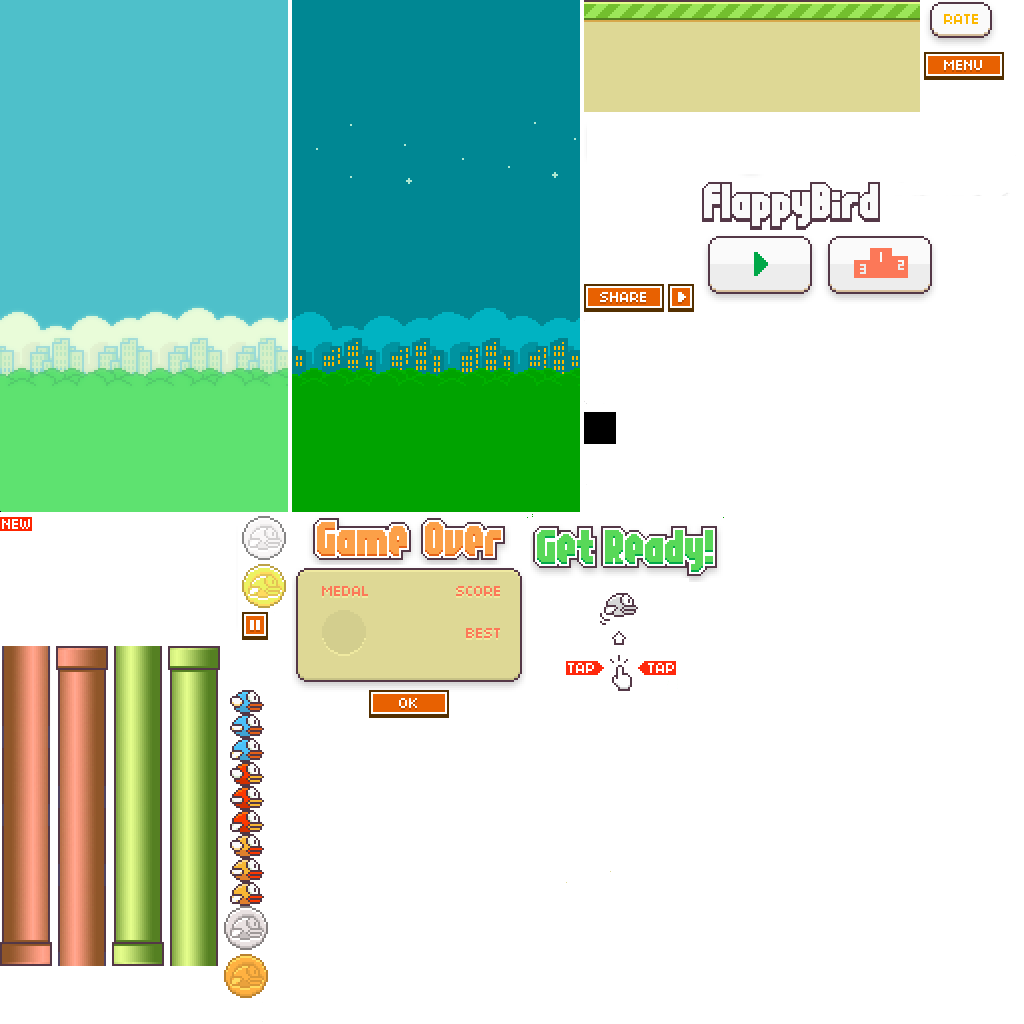
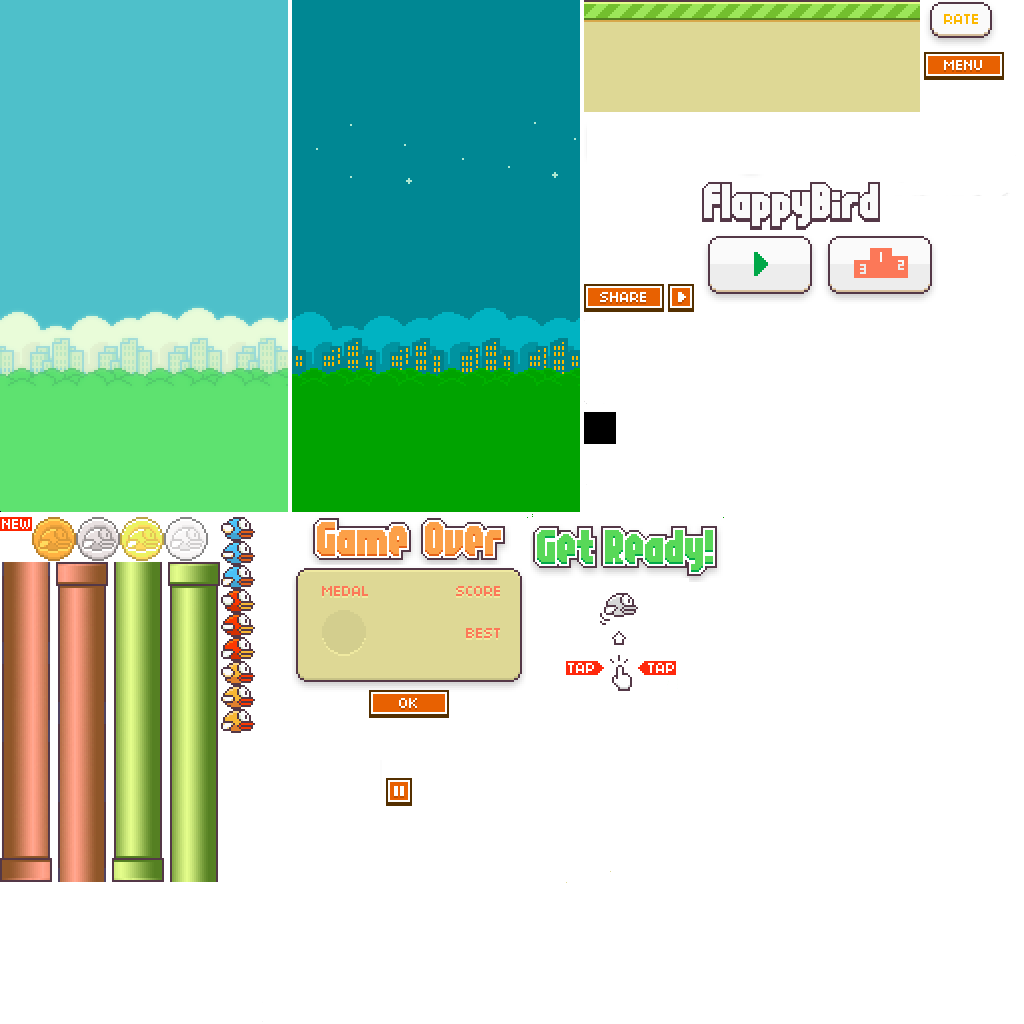
verzija 4
dodani komentarji, nov sprite sheet

Changed region(s): [[0.0, 0.5, 0.2812, 1.0], [0.375, 0.75, 0.4062, 0.8125]]

diff --git a/js/main.js b/js/main.js
@@ -1,39 +1,9 @@
-//gloablne spremenljivke
-let canvas;
-let ctx;
-let background;
-let ground;
-let readyMessage;
-let gameOver;
-let game;
-let bird;
-let pipes;
-let score;
-let sound;
-let high; 
 
-//tukaj se inicilaziriajo vse stvari
 function init (){
-    //inicializacija canvas in contexta
-    canvas = document.getElementById("window");
-    ctx = canvas.getContext("2d");
-                                //path, sX, sY, sWidth, sHeight, dX, dY, dWidth, dHeight,
-    background = new Background("img/flapy.png",292, 45, 287, 400, 0, 0, 287, 400); 
-    ground = new Background("img/flapy.png",584, 0, 336, 111, 0, 369, 336, 111);
-    readyMessage = new Background("img/flapy.png",527, 517, 196, 183, 320/2-196/2, -183 , 196, 183);
-    gameOver = new Background("img/flapy.png",292, 517, 233, 200, 320/2-233/2, -200 , 233, 200);
-    medal = new Background("img/sprite.png");
-    high = new Background("img/flapy.png",0, 517, 31, 15, 320/2-233/2+141,85+109, 31, 15);
+    //globalne spremenljivke so v drugi datoteki
 
-    game = new Game("start", 60);       //762
-    bird = new Bird("img/flapy.png",230, 690, 33, 23, 60, 180, 33, 23);
-                                    //sx1  sy1  sx2  sy2 sWidth sHeight dWidth dHeight
-    pipes = new Pipe("img/flapy.png", 0, 646, 56, 646, 52, 319, 53, 400);
-    score = new Score();
-    sound = new Sound();
-
-    //event listenerji
-    canvas.addEventListener("click", (e)=>{
+    //event listener za klik miške
+    window.addEventListener("click", (e)=>{
         let rect = canvas.getBoundingClientRect();
         game.mouseX = e.clientX - rect.left;
         game.mouseY = e.clientY - rect.top;
@@ -55,7 +25,8 @@ function init (){
 
     });
 
-    canvas.addEventListener("mouseup", ()=>{
+    //event listener za release miške
+    window.addEventListener("mouseup", ()=>{
         sound.stopSound("flap");
         console.log("stop");
     });
@@ -89,17 +60,13 @@ function draw(){
         readyMessage.draw(ctx, 1);   //sporočilo za start
     
     if(game.state == "over"){
-        gameOver.draw(ctx, 1);
+        gameOver.draw(ctx, 1);  //game over
         if(score.changed){
-            high.draw(ctx, 1);
+            high.draw(ctx, 1);  //new za high score
         }
     }
-    
-    score.draw(ctx, game.state);
+    score.draw(ctx, game.state);    //game.state pove kako se riše score    
     bird.draw(ctx);
-
-
-    
 }
 
 //tukaj se updejtajo vsi elementi
@@ -114,45 +81,45 @@ function update(){
         }
     }
     if(game.state == "game"){
-        bird.move();
-        pipes.delete(score.value);
+        bird.move();    
+        pipes.delete(score.value);  
         pipes.move(2);  //speed mora biti cela številka, drugače se pipe in ground ne nariše lepo
         ground.move(2);
 
-        if(bird.onGround(ground.posY)){
+        if(bird.onGround(ground.posY)){ //če pade na tla umre
             game.state = "over";
             score.changeScoreOption(0);
             sound.playSound("die")
         }
     
-        if(game.frames%90== 0)
+        if(game.frames%90== 0)  //vsakih 90 framov se nariše pipa
             pipes.generate();
         
-        if(bird.touchingPipes(pipes)){
+        if(bird.touchingPipes(pipes)){     //colission med pipo in flapijem + zaigra se zvok
             sound.playSound("hit");
             game.state ="dead";
         }
-        
-        if(bird.goThrought(pipes)){
+
+        if(bird.goThrought(pipes)){     //če gre čez pipo, dobi točko + zaigra se zvok
             score.changeValue();
             sound.playSound("score");
         }
-    }
-    else if(game.state=="dead"){
+    }   
+    else if(game.state=="dead"){            //dead je state pred over
         bird.move();
-        if(score.value > score.best){
-            score.setBest();
+        if(score.value > score.best){       //če je score večji od high scora ga nastavimo na best
+            score.setBest();                //changed pove ali je potrebno narisati new zdraven best
             score.changed = true;
         }
-        else if(score.value == score.best)
+        else if(score.value == score.best)  //tudi če je enak ga je treba nastavit, saj se vrednost ne shrani
              score.setBest();
-        if(bird.onGround(ground.posY)){
-            game.state = "over";
+        if(bird.onGround(ground.posY)){     
+            game.state = "over";            //ko je mrtev in pade na tla je game over + zaigra se sound
             sound.playSound("die");
-            score.changeScoreOption(0);
+            score.changeScoreOption(0);     //zamenja se način izpisovanja scora
         }
-    }
-    else if(game.state == "over"){
+    }   
+    else if(game.state == "over"){          //ko je konec igre se kliče animacija za game over okenček in score
         gameOver.animatedMove();
         score.animatedMove();
     }
@@ -160,7 +127,7 @@ function update(){
 
     game.frames++;
 
-    if(game.frames==91)
+    if(game.frames==91)     //uporablja se 1-90 framov, saj je tako najlažje za vse animacije ko
         game.frames = 1;
 
 }
@@ -168,7 +135,8 @@ function update(){
 
 
 
-/*
+/*  
+STAREJŠI SPRITE SHEET   
     ackground = new Background("img/sprite.png",0, 0, 275, 225, 0, 255, 275, 225); 
     ground = new Background("img/sprite.png",276, 0, 224, 112, 0, 368, 224, 112);
     readyMessage = new Background("img/sprite.png",0, 229, 174, 152, 320/2-174/2+10, -152 , 174, 152);

diff --git a/js/bird.js b/js/bird.js
@@ -1,6 +1,6 @@
 class Bird extends SpriteRenderer{
     //privatne lastnosti
-    #up = 0.5;
+    #up = 0.5;  //za začetno animacijo
 
     constructor(path, sX, sY, sWidth, sHeight, dX, dY, dWidth, dHeight){
         super(path,0, 0, sWidth, sHeight);
@@ -37,6 +37,7 @@ class Bird extends SpriteRenderer{
         super.adraw(ctx,this.animation[this.frame].X, this.animation[this.frame].Y, -this.width/2, -this.height/2);
         ctx.restore();     
     }
+
     startMoving(){
         this.posY+=this.#up;
         if(this.posY > 185 || this.posY < 175)
@@ -45,24 +46,24 @@ class Bird extends SpriteRenderer{
 
     //funkcija za letenje 
     fly(){
-        this.speed =- this.jump;
+        this.speed =- this.jump;    
     }
 
     //funkcija za premikanje (padanje dol in preverjanje kako se mora rotirat bird)
     move(){
-        this.speed+=this.gravity;
-        this.posY+=this.speed;
+        this.speed+=this.gravity;   //vedno bolj ga vleče dol
+        this.posY+=this.speed;      //ga potisne gor če je negativno oz. če je pozitivno ga vleče dol
 
-        if(this.speed < 0)
+        if(this.speed < 0)          //če bo ga potisnilo gor bo se rotiral malenkost gor
             this.rotate = -0.055;
-        else if(this.speed >0.15){
+        else if(this.speed >0.15){          //ko bo padal pa se bo postopoma začel obračati da bo gledal proti groundu
             if(this.rotate <0.25)
                 this.rotate += 0.012;
         }
     }
 
     //ali je bird na tleh
-    onGround(groundPosY){ return (this.posY+this.height/2 >= groundPosY) ? 1:0}
+    onGround(groundPosY){ return (this.posY+this.height/2 >= groundPosY) ? 1:0} 
 
     //flappy nesme iti neskončno v nebo
     onSkyLimit(){ 
@@ -71,7 +72,7 @@ class Bird extends SpriteRenderer{
     }
 
 
-    touchingPipes(pipes){
+    touchingPipes(pipes){                   //radius se uporablja, saj je flappy v obliki ene debele kepe :)
         if(pipes.positions.length > 0)
             if((this.posX + this.radius > pipes.positions[0]["posX"] && this.posX - this.radius < pipes.positions[0]["posX"]+pipes.width) 
                 && (this.posY - this.radius < pipes.positions[0]["posY"]+pipes.height || this.posY + this.radius > pipes.positions[0]["posY"] + pipes.height + pipes.space))

diff --git a/js/global.js b/js/global.js
@@ -1,0 +1,20 @@
+//globalne spremenljivke
+
+let canvas = document.getElementById("window");
+let ctx = canvas.getContext("2d");
+                                            //292
+let background = new Background("img/flapy.png",0, 45, 287, 400, 0, 0, 287, 400);   //path, sX, sY, sWidth, sHeight, dX, dY, dWidth, dHeight,
+let ground = new Background("img/flapy.png",584, 0, 336, 111, 0, 369, 336, 111);
+let readyMessage = new Background("img/flapy.png",527, 517, 196, 183, 320/2-196/2, -183 , 196, 183);
+let gameOver = new Background("img/flapy.png",292, 517, 233, 200, 320/2-233/2, -200 , 233, 200);
+let medal = new Background("img/sprite.png");
+let high = new Background("img/flapy.png",0, 517, 31, 15, 320/2-233/2+141,85+109, 31, 15);
+
+let game = new Game("start", 60);       //517   
+                                        //589
+let bird = new Bird("img/flapy.png",221, 661, 33, 23, 60, 180, 33, 23);
+                
+                                //0         //56
+let pipes = new Pipe("img/flapy.png", 112, 562, 168, 562, 51, 319, 51, 400);  //sx1  sy1  sx2  sy2 sWidth sHeight dWidth dHeight
+let score = new Score();
+let sound = new Sound();

diff --git a/index.html b/index.html
@@ -9,15 +9,32 @@
             border:1px solid #444;
             display:block;
             margin: 0 auto;
+            position:relative;
+            top:50px;
+
         }
         @font-face {
         font-family: 'FlappyBirdy';
         src: url('font/flappyBirdy.ttf');
-    }
+        }
+        img{
+            position:absolute;
+            top:8px;
+            left:0;
+            right:0;
+            bottom:0;
+            margin: 0 auto;
+    
+        }
+        body{
+            background-color:#eccf7f;
+        }
     </style>
 </head>
 <body onload ="init()">
     <canvas id="window" width="320" height="480"></canvas>
+
+   <!--<img src="img/bg.png" width="375 " height="708" alt="">-->
 
     <script src="js/spriteRenderer.js"></script>
     <script src="js/background.js"></script>
@@ -26,6 +43,7 @@
     <script src="js/gameControler.js"></script>
     <script src="js/score.js"></script>
     <script src="js/sound.js"></script>
+    <script src="js/global.js"></script>
     <script src = "js/main.js"></script>
 </body>
 </html>

diff --git a/js/background.js b/js/background.js
@@ -22,7 +22,7 @@ class Background extends SpriteRenderer{
         this.posX = (this.posX- speed)%(this.width/2); //ko pride do max -x pozicije gre spet nazaj na 0, zato se uporablja %
     }
 
-    animatedMove(){
+    animatedMove(){         //če je manjše od željene pozicije se premika
         if(this.posY < 85)
             this.posY+=15;
     }
